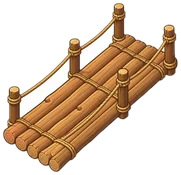
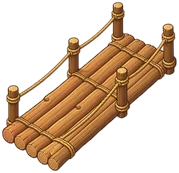
Epochia 50: Arbeit im Gebäude, betende Frau, ruhiges und weicheres Nachtlicht, näher zoomen, durchgehende Brücken
Claude-Session: https://claude.ai/code/session_01W1n1heUiAJ28sR2PmqvvM9

diff --git a/neu/js/leben.js b/neu/js/leben.js
@@ -3,7 +3,7 @@
 // Reine Darstellung: nichts davon wird gespeichert. Nur die Mammutherde lässt sich antippen und jagen
 // (die Jagd selbst steht in logik.js, hier laufen nur die Jäger und Mammuts).
 
-const LIFE_NAMES = ['mensch-mann', 'mensch-frau', 'mensch-mann-sitzend', 'mensch-frau-sitzend', 'mensch-mann-leer', 'mensch-frau-leer', 'mensch-jaeger', 'mensch-mann-stein', 'mensch-mann-betend', 'mensch-axt-oben', 'mensch-axt-unten', 'mensch-hacke-oben', 'mensch-hacke-unten', 'mensch-frau-pflueckt', 'mensch-frau-grabstock-oben', 'mensch-frau-grabstock-unten', 'mensch-hirte', 'mensch-frau-pflanzt', 'mammut', 'hirsch', 'ziege', 'einbaum'];
+const LIFE_NAMES = ['mensch-mann', 'mensch-frau', 'mensch-mann-sitzend', 'mensch-frau-sitzend', 'mensch-mann-leer', 'mensch-frau-leer', 'mensch-jaeger', 'mensch-mann-stein', 'mensch-mann-betend', 'mensch-frau-betend', 'mensch-axt-oben', 'mensch-axt-unten', 'mensch-hacke-oben', 'mensch-hacke-unten', 'mensch-frau-pflueckt', 'mensch-frau-grabstock-oben', 'mensch-frau-grabstock-unten', 'mensch-hirte', 'mensch-frau-pflanzt', 'mammut', 'hirsch', 'ziege', 'einbaum'];
 
 const life = { walkers: [], animals: [], birds: [], jumps: [], butterflies: [], felled: [], birdTimer: 4, fishTimer: 1, herdTimer: 0 };
 
@@ -274,9 +274,26 @@ function targetGone(w) {
   return inMap(x, y) && !targetIds(k).includes(terrain[y * N + x]);
 }
 
+// Arbeitsplatz IN der Werkstatt (auf der Platte, vordere Hälfte, passend zum Bild): [Standplatz u, v, Werkstück u, v]
+// u läuft zur rechten, v zur linken Ecke der Raute (0 … Größe). Gespiegelte Ansicht: u und v tauschen.
+const INSIDE_SPOTS = {
+  fellmacherin:   [[1.55, 1.05, 1.25, 0.8], [1.05, 1.55, 0.8, 1.25]],   // vor den Spannrahmen
+  steinschlaeger: [[1.6, 1.05, 1.15, 1.25], [1.25, 1.7, 1.1, 1.25]],    // am großen Arbeitsstein
+  toepferei:      [[1.65, 1.0, 1.35, 1.35], [1.05, 1.65, 1.35, 1.35]],  // zwischen Ofen und Töpfen
+};
+function insideSpot(b, k) {
+  const list = INSIDE_SPOTS[b.type];
+  if (!list) return null;
+  let [su, sv, tu, tv] = list[k % list.length];
+  if (typeof buildingView === 'function' && buildingView(BUILDINGS[b.type], b.rot, b.x, b.y).mirror) [su, sv, tu, tv] = [sv, su, tv, tu];
+  return { tx: b.x + tu, ty: b.y + tv, sx: b.x + su, sy: b.y + sv };
+}
+
 function workSpot(b, kind, far, k = 0) {
   const s = BUILDINGS[b.type].size, cx = b.x + s / 2, cy = b.y + s / 2;
-  if (kind === 'self') {   // arbeitet direkt vor dem Haus, das Werkstück liegt daneben (nach außen)
+  if (kind === 'self') {   // arbeitet in der Werkstatt auf der Platte; ohne festgelegten Platz direkt vor dem Haus
+    const inside = insideSpot(b, k);
+    if (inside) return inside;
     const f = frontSpot(b, k);
     if (!f) return null;
     return { tx: f.x + f.dx * 0.45 + f.dy * 0.1, ty: f.y + f.dy * 0.45 + f.dx * 0.1, sx: f.x - f.dx * 0.1, sy: f.y - f.dy * 0.1 };
@@ -397,7 +414,8 @@ function updateWorkers(dt) {
           if (inMap(x, y) && terrain[y * N + x] === TERRAIN.wasser.id && buildingAt(x, y) < 0) { spot.tx = x + 0.5; spot.ty = y + 0.5; break; }
         }
       }
-      const route = walkRoute(w.x, w.y, spot.sx, spot.sy);
+      const own = w.kind.target === 'self' ? state.buildings.indexOf(w.b) : -1;   // Werkstatt: über die eigene Platte gehen
+      const route = walkRoute(w.x, w.y, spot.sx, spot.sy, own);
       if (!route) { w.t = 8; continue; }   // nur übers Wasser erreichbar: später nochmal (anderer Baum)
       Object.assign(w, spot, { phase: 'go', route });
     } else if (w.phase === 'go' || w.phase === 'back') {
@@ -428,7 +446,7 @@ function updateWorkers(dt) {
       }
       const sxd = w.tx - w.x - (w.ty - w.y);
       if (Math.abs(sxd) > 0.01) w.face = sxd > 0 ? -1 : 1;   // zum Baum/Felsen schauen
-      if (w.t <= 0) { w.phase = 'back'; w.route = walkRoute(w.x, w.y, w.home.x, w.home.y) || [[w.home.x, w.home.y]]; }
+      if (w.t <= 0) { w.phase = 'back'; w.route = walkRoute(w.x, w.y, w.home.x, w.home.y, state.buildings.indexOf(w.b)) || [[w.home.x, w.home.y]]; }
     }
   }
 }
@@ -641,15 +659,16 @@ function updateVisitors(dt) {
       if (here.length >= gatherWant(b) || budget <= 0 || lifeRandom() < 0.4) return;
       const used = new Set(here.map(v => v.slot));
       const s = BUILDINGS[b.type].size, cx = b.x + s / 2, cy = b.y + s / 2;
-      const r = GATHER[b.type] === 'feuer' ? s * 0.34 + 0.1 : s / 2 + 0.3;   // am Feuer auf die Bänke
+      const pray = GATHER[b.type] === 'beten';
+      const r = pray ? s * 0.27 : s * 0.34 + 0.1;   // am Feuer auf die Bänke; Beter knien auf dem Platz um die Mitte
       // freien Platz suchen: auf dem eigenen Platz oder auf begehbarem Boden – nicht im Acker oder Nachbarhaus
       let slot = -1, a = 0, spot = null;
       for (let k = 0; k < 10 && slot < 0; k++) {
         if (used.has(k)) continue;
-        a = k * 2.4 + hash(b.x, b.y) * 6;
+        a = pray ? Math.PI / 4 + (k % 5 - 2) * 0.55 + (k >= 5 ? 0.27 : 0) : k * 2.4 + hash(b.x, b.y) * 6;   // Beter vorne (zum Betrachter hin)
         const p = { x: cx + Math.cos(a) * r, y: cy + Math.sin(a) * r * 0.9 };
         const tx = Math.floor(p.x), ty = Math.floor(p.y);
-        if (buildingAt(tx, ty) === i || walkable(tx, ty)) { slot = k; spot = p; }
+        if (buildingAt(tx, ty) === i || (!pray && walkable(tx, ty))) { slot = k; spot = p; }
       }
       if (slot < 0) return;
       const from = gatherFrom(spot, a, r, cx, cy, i);
@@ -700,8 +719,8 @@ function drawVisitor(v, t) {
     const hop = Math.abs(Math.sin(t * 4 + v.ph)) * 6 * z;
     drawCreature(personImg(v.img, 'leer'), v.x, v.y, 32, Math.sin(t * 1.3 + v.ph) > 0 ? 1 : -1, hop, '💃', t * 8 + v.ph);
   } else if (v.kind === 'feuer') drawSitting(v, t);
-  else if (images['mensch-mann-betend'] && v.img === 'mensch-mann') {   // beten: kniet (Canva-Bild), nickt langsam
-    const p = tileToScreen(v.x, v.y), img = images['mensch-mann-betend'], z = cam.zoom;
+  else if (images[v.img + '-betend']) {   // beten: Mann und Frau knien (Canva-Bilder), nicken langsam
+    const p = tileToScreen(v.x, v.y), img = images[v.img + '-betend'], z = cam.zoom;
     const h = 24 * z, w = h * img.width / img.height, nod = Math.max(0, Math.sin(t * 0.8 + v.ph)) * 0.08;
     ctx.fillStyle = 'rgba(0,0,0,0.14)';
     ctx.beginPath(); ctx.ellipse(p.x, p.y, 9 * z, 3 * z, 0, 0, 7); ctx.fill();

diff --git a/neu/js/zeichnen.js b/neu/js/zeichnen.js
@@ -7,7 +7,7 @@ const CHUNK = 16;
 const FONT = "Fredoka, 'Trebuchet MS', sans-serif";   // Schrift für Texte auf der Karte (Zeichen/Emoji fallen auf die Systemschrift zurück)   // Boden-Stück = 16 × 16 Felder
 
 const cam = { x: 0, y: N * TH / 2, zoom: 0.8 };
-const ZOOM_MIN = 0.3, ZOOM_MAX = 2.2;
+const ZOOM_MIN = 0.3, ZOOM_MAX = 3.5;   // Emin: näher heranzoomen (Bilder reichen bis etwa 3,5)
 let canvas = null, ctx = null, viewW = 800, viewH = 450, dpr = 1;
 // Auflösung: Ist das Handy zu langsam, zeichnet das Spiel mit weniger Bildpunkten (start.js passt das an)
 let renderScale = 1;
@@ -1261,12 +1261,35 @@ function drawPathLight(p, style, seed) {
 }
 
 // Brückenstück aus Canva: läuft im Bild von unten links nach oben rechts (= entlang y); entlang x gespiegelt
+// Brücke aus mehreren Feldern: Das Bild ist etwa 1,6 Felder lang. Jedes Feld zeichnet nur seinen eigenen Abschnitt
+// (Scheibe quer zur Laufrichtung) – so entsteht eine durchgehende Brücke statt übereinander gestapelter Bilder.
+// Die äußeren Enden (Ufer) werden nicht abgeschnitten, dort sieht man Stammenden und Pfosten.
+function isBridgeAt(x, y) {
+  const i = buildingAt(x, y);
+  return i >= 0 && !!BUILDINGS[state.buildings[i].type].onWater;
+}
+
+const BRIDGE_SHEAR = 0.87 - TH / TW;
 function drawBridgeSprite(img, b, snow) {
   const p = tileToScreen(b.x + 0.5, b.y + 0.5), z = cam.zoom;
   const w = TW * 1.0 * z, h = w * img.height / img.width;
+  const ax = bridgeAlongX(b);
+  const [dx, dy] = ax ? [1, 0] : [0, 1];
+  const prev = isBridgeAt(b.x - dx, b.y - dy), next = isBridgeAt(b.x + dx, b.y + dy);
   ctx.save();
+  if (prev || next) {   // nur den eigenen Abschnitt zeigen (Seite zum Ufer bleibt offen)
+    const a0 = prev ? 0 : -3, a1 = next ? 1 : 4;   // Bereich entlang der Laufrichtung (in Feldern ab b.x bzw. b.y)
+    const pt = (along, across) => ax ? tileToScreen(b.x + along, b.y + across) : tileToScreen(b.x + across, b.y + along);
+    const c = [pt(a0, -3), pt(a1, -3), pt(a1, 4), pt(a0, 4)];
+    ctx.beginPath(); ctx.moveTo(c[0].x, c[0].y);
+    for (let k = 1; k < 4; k++) ctx.lineTo(c[k].x, c[k].y);
+    ctx.closePath(); ctx.clip();
+  }
   ctx.translate(p.x, p.y);
-  if (bridgeAlongX(b)) ctx.scale(-1, 1);
+  if (ax) ctx.scale(-1, 1);
+  // Im Bild steigt die Brücke etwas steiler an (≈ 0,87) als die Rasterachse (22/32 ≈ 0,69): leicht scheren,
+  // damit aneinandergereihte Abschnitte genau fluchten (Pfosten bleiben senkrecht)
+  ctx.transform(1, BRIDGE_SHEAR, 0, 1, 0, 0);
   ctx.fillStyle = 'rgba(20, 40, 60, 0.25)';   // Schatten im Wasser
   ctx.beginPath(); ctx.ellipse(3 * z, 5 * z, w * 0.42, h * 0.2, 0, 0, 7); ctx.fill();
   ctx.drawImage(img, -w / 2, -h * 0.58, w, h);

diff --git a/neu/js/wetter.js b/neu/js/wetter.js
@@ -215,12 +215,17 @@ function drawDayNight() {
   nightCtx.fillStyle = `rgba(12,20,55,${0.62 * d})`;
   nightCtx.fillRect(0, 0, w, h);
   nightCtx.globalCompositeOperation = 'destination-out';
+  // Flackern hängt am Ort auf der Karte, nicht am Bildschirm – sonst flackert es beim Verschieben schneller
+  const o = worldToScreen(0, 0), zz = cam.zoom || 1;
   for (const l of lights) {
-    const fl = 0.92 + 0.08 * Math.sin(frameTime * 9 + l.x);
+    const fl = 0.92 + 0.08 * Math.sin(frameTime * 9 + ((l.x - o.x) + (l.y - o.y) * 0.7) / zz * 0.05);
     const r = l.r * s * fl;
     const g = nightCtx.createRadialGradient(l.x * s, l.y * s, 0, l.x * s, l.y * s, r);
-    g.addColorStop(0, 'rgba(0,0,0,0.95)');
-    g.addColorStop(0.5, 'rgba(0,0,0,0.5)');
+    // weicher Abfall (fast wie echtes Licht: innen hell, nach außen langsam auslaufend)
+    g.addColorStop(0, 'rgba(0,0,0,0.97)');
+    g.addColorStop(0.2, 'rgba(0,0,0,0.85)');
+    g.addColorStop(0.45, 'rgba(0,0,0,0.5)');
+    g.addColorStop(0.7, 'rgba(0,0,0,0.2)');
     g.addColorStop(1, 'rgba(0,0,0,0)');
     nightCtx.fillStyle = g;
     nightCtx.beginPath(); nightCtx.ellipse(l.x * s, l.y * s, r, r * 0.7, 0, 0, 7); nightCtx.fill();
@@ -230,10 +235,14 @@ function drawDayNight() {
   ctx.save();
   ctx.globalCompositeOperation = 'lighter';
   for (const l of lights) {
-    const r = l.r * 0.6;
+    // warmes Streulicht: heller Kern, breiter orangefarbener Hof, der weich in die Nacht ausläuft
+    const fl = 0.94 + 0.06 * Math.sin(frameTime * 7 + ((l.x - o.x) - (l.y - o.y)) / zz * 0.05);
+    const r = l.r * 0.95 * fl;
     const g = ctx.createRadialGradient(l.x, l.y, 0, l.x, l.y, r);
-    g.addColorStop(0, `rgba(255,150,60,${0.22 * d})`);
-    g.addColorStop(1, 'rgba(255,120,40,0)');
+    g.addColorStop(0, `rgba(255,190,110,${0.30 * d})`);
+    g.addColorStop(0.18, `rgba(255,150,60,${0.20 * d})`);
+    g.addColorStop(0.5, `rgba(255,120,40,${0.08 * d})`);
+    g.addColorStop(1, 'rgba(255,100,30,0)');
     ctx.fillStyle = g;
     ctx.beginPath(); ctx.ellipse(l.x, l.y, r, r * 0.7, 0, 0, 7); ctx.fill();
   }

diff --git a/neu/index.html b/neu/index.html
@@ -3,7 +3,7 @@
 <head>
   <meta charset="UTF-8">
   <meta name="viewport" content="width=device-width, initial-scale=1, maximum-scale=1, user-scalable=no, viewport-fit=cover">
-  <meta name="app-version" content="49">
+  <meta name="app-version" content="50">
   <meta name="theme-color" content="#3d7a2a">
   <meta name="apple-mobile-web-app-capable" content="yes">
   <meta name="mobile-web-app-capable" content="yes">

diff --git a/neu/js/daten.js b/neu/js/daten.js
@@ -2,7 +2,7 @@
 // Epochia – alle Spieldaten (Zahlen zum Feinjustieren stehen hier oben, die Logik liest nur daraus).
 // Pläne: docs/konzept-neu.md und docs/epoche-1-steinzeit.md
 
-const APP_VERSION = 49;
+const APP_VERSION = 50;
 
 const CONFIG = {
   mapSize: 128,           // Felder je Seite (bis Version 21: 64 – alte Karten liegen jetzt in der Mitte)

diff --git a/neu/service-worker.js b/neu/service-worker.js
@@ -1,6 +1,6 @@
 // Epochia – offline spielen. Bei Änderungen die Versionsnummer erhöhen (gleiche Nummer wie
 // APP_VERSION in js/daten.js und <meta name="app-version"> in index.html).
-const CACHE = 'epochia-v49';
+const CACHE = 'epochia-v50';
 const ASSETS = [
   './',
   'index.html',

diff --git a/docs/wuensche.md b/docs/wuensche.md
@@ -21,6 +21,7 @@ Stichworte reichen, z. B. „- Farm zeigt falsche Arbeiterzahl nach dem Verschie
 ## Erledigt
 
 <!-- Claude verschiebt erledigte Punkte hierher, mit Datum und Version -->
+- 2026-11-01, Epochia Version 50 – Emins Liste: Fellmacherin, Steinschläger, Töpferei arbeiten auf ihrem Grundstück statt davor; Beter knien auf dem Ahnenplatz/Steinkreis; Frauen knien beim Beten (Canva-Bild); Lichter flackern beim Verschieben nicht mehr schneller; weicheres, wärmeres Licht nachts; näher heranzoomen (bis 3,5); lange Brücken sehen durchgehend aus (keine gestapelten Bilder, weiße Streifen weg).
 - 2026-11-01, Epochia Version 49 – Wunsch Emin: Fackeln am Trampelpfad (jedes zweite Feld, das Spiel schaut beim Bauen auf die Nachbarfelder; alte Wege bekommen sie einmalig), nachts warmer Lichtschein; später werden es Laternen (CONFIG.pathLights je Zeitalter). Winterbilder Rückansicht Grubenhaus und Langhaus.
 - 2026-11-01, Epochia Version 48 – Wunsch Emin: Steinsammler bauen kleine Felsen in der Nähe nach und nach ab (alle 40 Stein ein Felsfeld, zerbröselt sichtbar), das Gebirge gibt Stein ohne Ende und zählt für den Bonus. Fehler: Fellmacherinnen legten das Fell auf den Boden – jetzt halten sie es in den Händen. Rückansicht Pflanzerin, erste Winterbilder der Rückansichten (Wohnhöhle, Fellzelt).
 - 2026-11-01, Epochia Version 47 – Fehler von Emin: Waren blieben bei 199 von 200 hängen (Verbrauch nahm nach dem Auffüllen gleich wieder etwas weg), Forschungen für 200 waren nie bezahlbar – volles Lager mit Überschuss bleibt jetzt bei 200. Rückansichten (Canva) für Vorratsspeicher, Steinkreis, Lagerfeuer.
